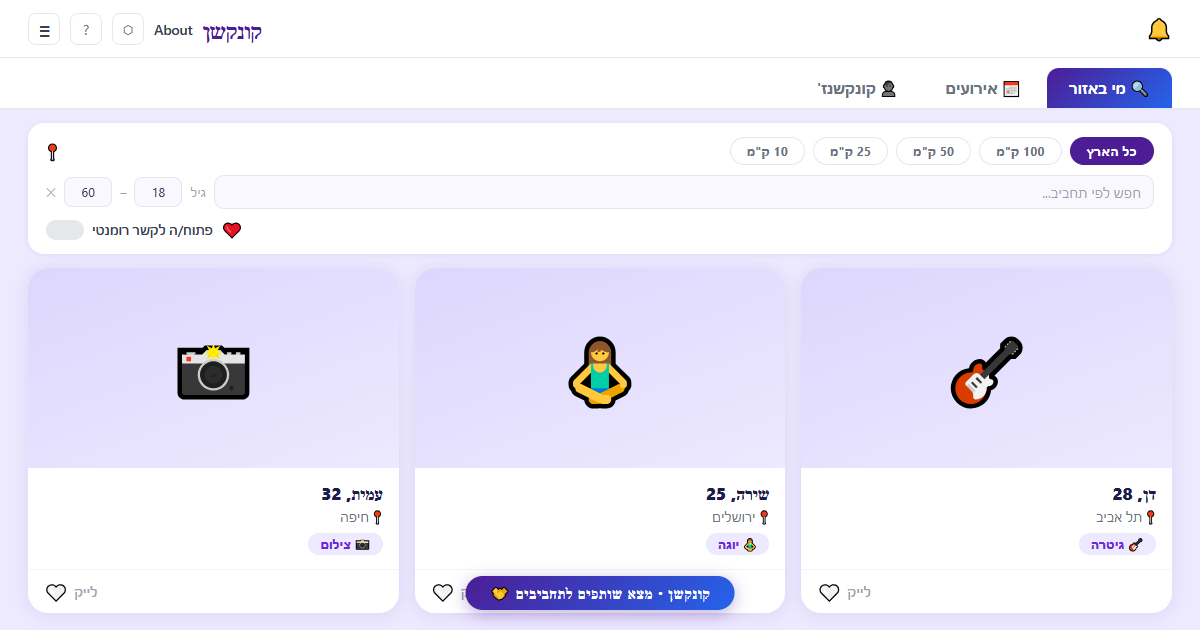
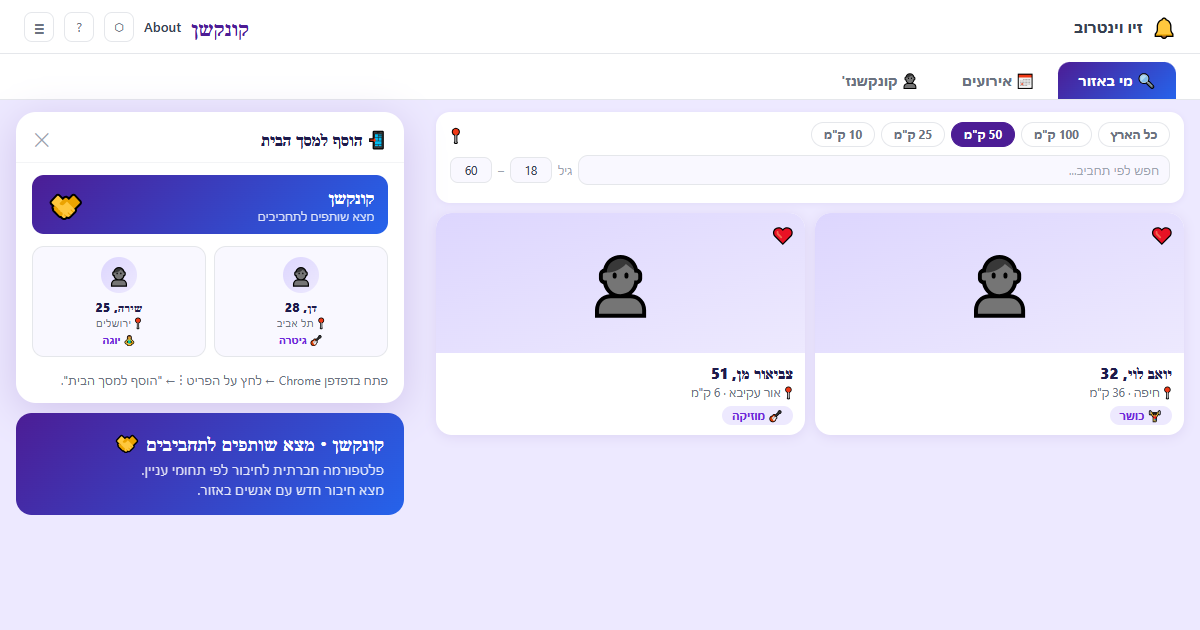
fix: new OG image, remove duplicate app name from share text, bump v=5

diff --git a/js/profiles-events.js b/js/profiles-events.js
@@ -1243,7 +1243,7 @@ function shareEvent(eventId) {
 
 function shareApp() {
   const url  = 'https://hobby-connectionn.vercel.app/?v=4';
-  const text = '🤝 קונקשן — מוצאים אנשים עם תחביבים משותפים בסביבתך!\n' + url;
+  const text = url;
 
   const existing = document.getElementById('shareAppMenu');
   if (existing) { existing.remove(); return; }